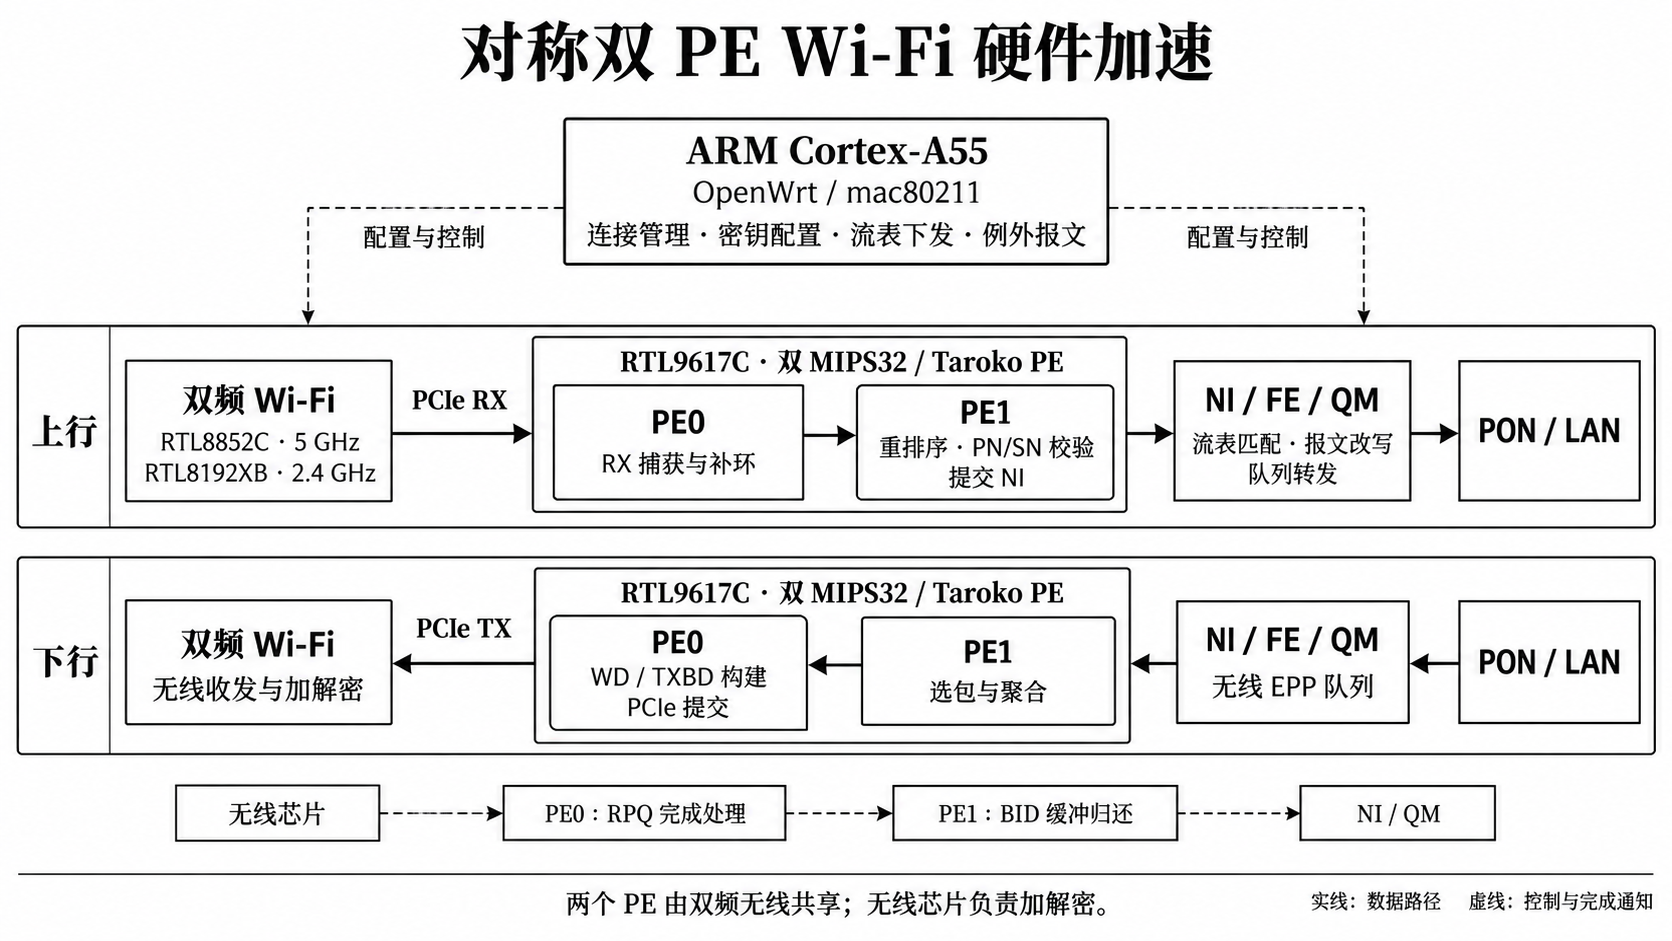
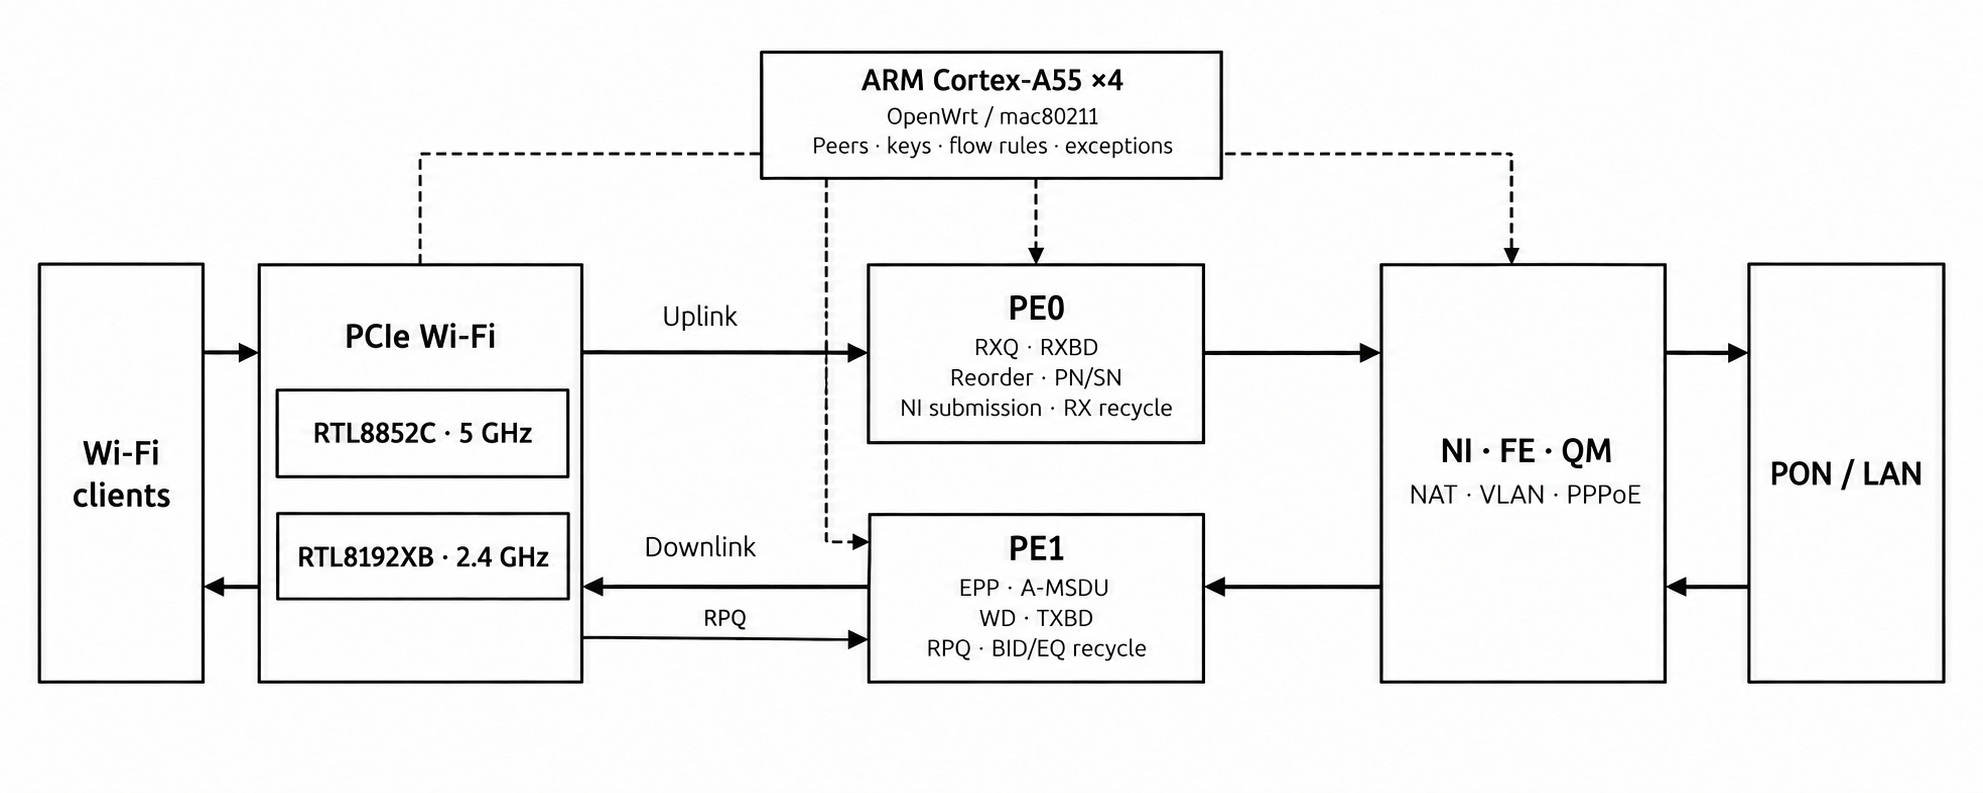
docs: publish PE direction split architecture and benchmark records
Describe PE0 uplink and PE1 downlink ownership with an aligned monochrome architecture figure. Summarize best recorded mean TCP throughput and sequence-verified lossless UDP results, with shared-window bidirectional rates and concise test conditions.

Validation: README rates checked against normalized source records; UDP sequence counts verified; diagram labels, arrow directions, and local links reviewed. Built-in imagegen prompt retained with the asset.

Changed region(s): [[0.0, 0.0, 0.9952, 0.9987]]

diff --git a/README.md b/README.md
@@ -142,29 +142,27 @@ sh scripts/package_release.sh sources/openwrt artifacts/release
 
 固件通过 RTL9617C 的两个 MIPS32 / Taroko 包处理核心（PE），连接 PCIe 无线收发与 NI / FE / QM 硬件转发路径。5 GHz 的 RTL8852C 和 2.4 GHz 的 RTL8192XB 共享这两个 PE；ARM 上的 OpenWrt / mac80211 负责连接管理、密钥配置、流表下发及例外报文处理。
 
-![双 PE Wi-Fi 硬件加速架构：上行经 PE0 接收、PE1 处理后提交 NI；下行经 PE1 聚合、PE0 构建无线发送描述符；PE0 处理发送完成通知，PE1 回收缓冲](assets/wifi-offload-architecture.png)
+![Wi-Fi 硬件加速架构：PE0 负责上行，PE1 负责下行及发送完成回收，ARM 负责控制与例外报文](assets/wifi-offload-architecture.png)
 
-- **上行**：PE0 捕获无线 RX 报文、补充接收描述符；PE1 完成重排序、PN/SN 校验并提交 NI，由 FE 匹配流表、执行报文改写，再经队列转发到 PON / LAN。
-- **下行**：PON / LAN 报文经 FE / NI / QM 转发到无线 EPP 队列，PE1 选包并聚合，PE0 构建 TX 描述符并通过 PCIe 交给无线芯片发送。
-- **缓冲回收**：PE0 处理 RPQ 发送完成通知，PE1 回收对应缓冲；上行缓冲按 NI 消费进度归还，配合 RXBD 批量补环。
+- **上行**：PE0 捕获无线 RX 报文、补充 RXBD，完成重排序、PN/SN 校验并提交 NI；FE 匹配流表、执行报文改写，再经队列转发到 PON / LAN。
+- **下行**：PON / LAN 报文经 FE / NI / QM 转发到无线 EPP 队列，PE1 选包、执行 A-MSDU 聚合，构建 WD / TXBD 并通过 PCIe 交给无线芯片发送。
+- **缓冲回收**：PE1 处理 RPQ 发送完成通知并回收 BID / EQ 缓冲；PE0 按 NI 消费进度回收上行缓冲并补充 RXBD。
 - **硬件分工**：无线芯片负责无线收发与加解密，FE 执行 NAT、VLAN、PPPoE 等流表动作，双 PE 承担无线数据路径处理。
 
 在 LuCI **网络 → 防火墙** 中启用软件流量卸载与硬件流量卸载。实现见 [PE 固件](port/pe/rtl9617c-radio-wd.c)和[无线驱动](port/overlay/target/linux/rtl9617c/files-6.18/drivers/net/wireless/realtek/rtl_ax_ap)。
 
 ### 实测表现
 
-测试配置：**0.8.2-beta、MacBook、5 GHz HE160、设备端 NI/PON 模拟端点**。上行指 MacBook 向设备发送，下行反之。TCP 单向各测 20 秒，同时双向测 60 秒；UDP 单向各发 100 万包，供流设置为 2000 Mbps，双向各为 1000 Mbps。速率按接收端有效载荷计算，双向使用共同时间窗并计入尾包延迟。
+测试平台：**TYFZA1、MacBook、5 GHz HE160、Linux 6.18.55**。流量经过真实无线空口及 NI / FE / QM，PON 对端由设备内模拟。下表汇总 2026-10-29 至 30 日各工况的最佳平均有效载荷速率，UDP 选取逐包收齐的记录。速率单位为 Gbps；上行指客户端发往 PON，下行反之。
 
-| 测试 | 上行 | 下行 |
-| --- | ---: | ---: |
-| TCP 单流 | 1.538 Gbps | 1.491 Gbps |
-| UDP 单向 | 1.667 Gbps | 1.842 Gbps |
-| TCP 同时双向 | 0.650 Gbps | 0.796 Gbps |
-| UDP 同时双向 | 0.443 Gbps | 0.412 Gbps |
+| 协议 | 工况 | 上行 | 下行 | 双向合计 | 重传或丢包（上 / 下） |
+| --- | --- | ---: | ---: | ---: | ---: |
+| TCP | 单向 | 1.553 | 1.558 | — | 1 / 0 次重传 |
+| TCP | 同时双向 | 0.819 | 0.789 | 1.607 | 0 / 0 次重传 |
+| UDP | 单向 | 1.723 | 1.750 | — | 0% / 0% |
+| UDP | 同时双向 | 0.745 | 0.943 | 1.688 | 0% / 0% |
 
-TCP 测试的硬件流表命中与收发计数确认了流量卸载，双向的两个数据流均进入硬件路径。单流 TCP 均为 0 重传；同时双向上行重传 6 次、下行 4 次，缺缓冲、尾丢和接收描述符不足（RDU）均为 0。
-
-UDP 单向丢包率为上行 **12.09%**、下行 **3.12%**，无重复或载荷损坏；上行记录到 43 次 RDU。UDP 同时双向记录到 6 次 RDU，下行最大尾包间隔 **10.24 秒**。首次双向预热曾出现发送停顿，冷启动后完成上述测试。
+单向上下行独立测量，双向两项取自同一次运行并统一使用包含收尾的共同时间窗，合计在舍入前计算。TCP 使用 iperf3：单向上 / 下分别为 1 / 4 流、20 / 30 秒，双向每方向 2 流、30 秒。UDP 载荷为 1464 B，单向各发送 300 万包，双向上 / 下分别发送 120 / 152 万包；接收端按唯一序号核验，无缺失、重复或无效报文。测试期间核对硬件流表命中与 PE 收发计数。数值、统计窗口及原始记录摘要见[测试记录](manifests/wifi-benchmark-best-20261030.json)。
 
 ## 参与项目
 
